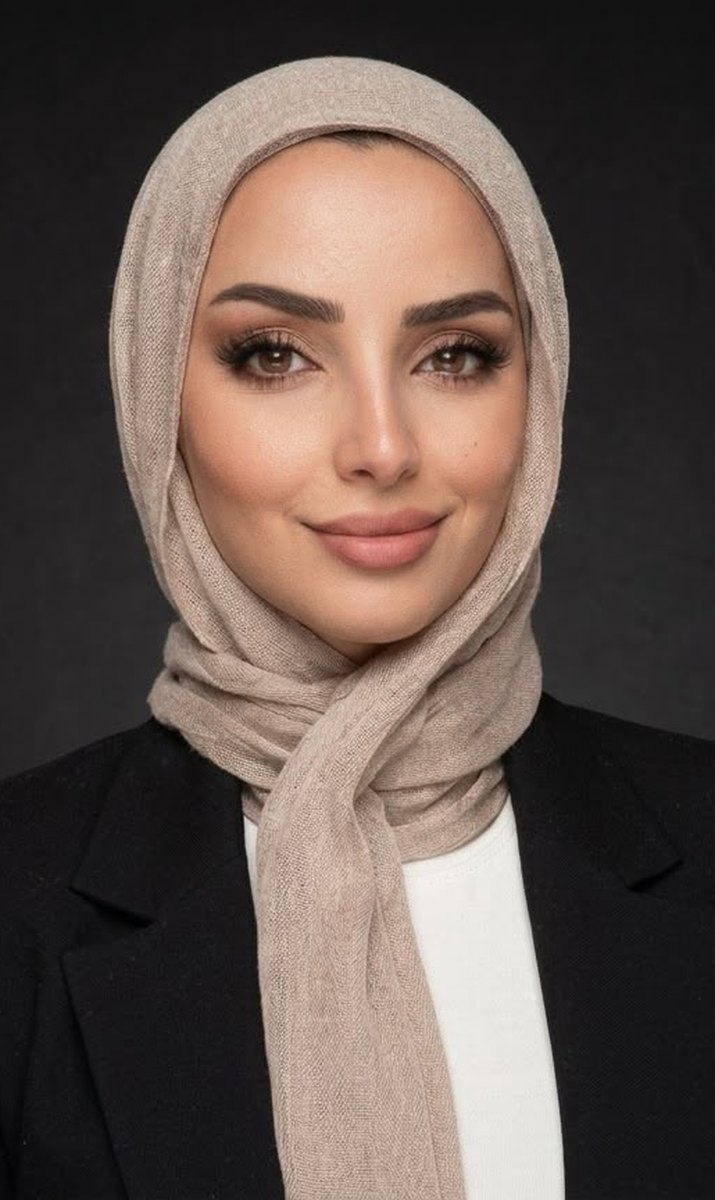
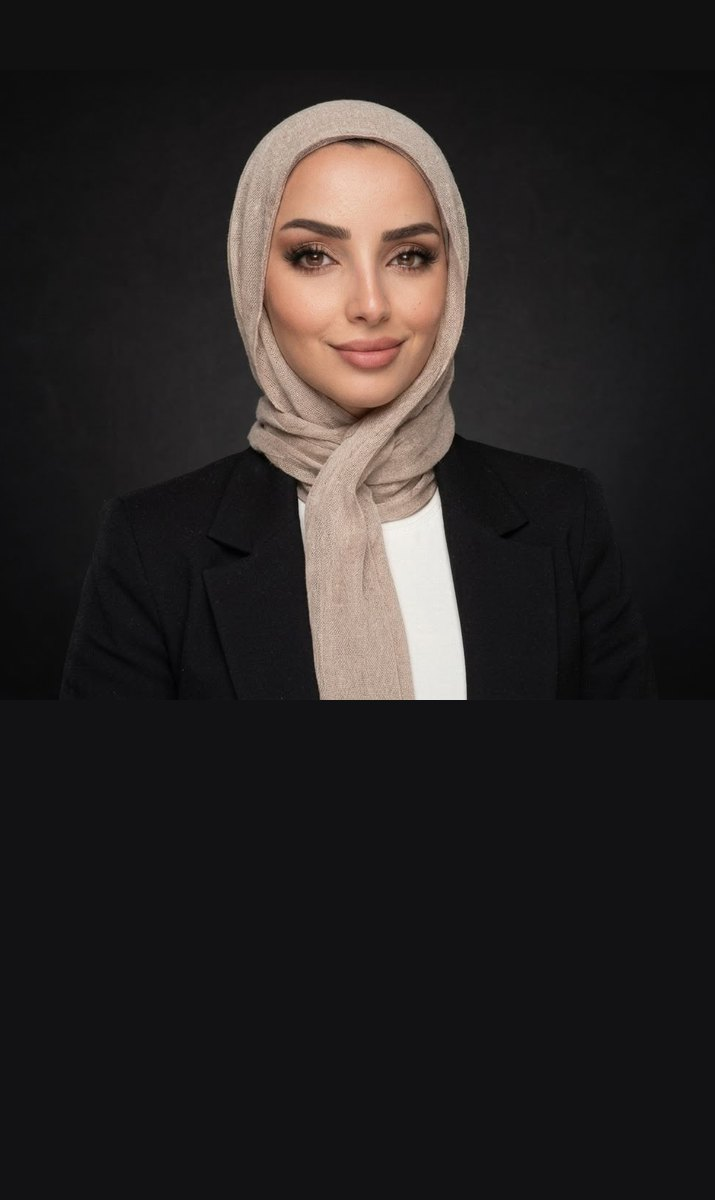
Email links always do something; Lojen's thumbnail framed wider
- "Send Us An Email" scrolls to the inquiry form.
- Every mailto: link also copies the address and shows a short message,
  since mailto does nothing for visitors without an email app.
- The footer's website icon (linking to the site itself) is removed.
- lojen.jpg rebuilt from the original with head and shoulders in frame,
  padded with the photo's own backdrop tone, matching the other thumbnails.

diff --git a/ar/index.html b/ar/index.html
@@ -33,7 +33,7 @@
   <link rel="preconnect" href="https://fonts.googleapis.com">
   <link rel="preconnect" href="https://fonts.gstatic.com" crossorigin="">
   <link href="https://fonts.googleapis.com/css2?family=Instrument+Serif:ital@0;1&amp;family=Roboto:wght@300;400;500;700&amp;family=Amiri:ital,wght@0,400;0,700;1,400&amp;family=IBM+Plex+Sans+Arabic:wght@300;400;500;600&amp;display=swap" rel="stylesheet">
-  <link rel="stylesheet" href="/assets/css/style.css?v=20261021m">
+  <link rel="stylesheet" href="/assets/css/style.css?v=20261021n">
   <script type="application/ld+json">
   {
     "@context": "https://schema.org",
@@ -103,6 +103,7 @@
     <canvas id="pre-canvas"></canvas>
     <img class="pre-logo" src="/assets/img/icon.png" alt="">
   </div>
+  
   
   
   
@@ -287,12 +288,12 @@
       </div></div>
 
       <div class="vm-grid" id="vision">
-        <article class="vm-card" data-reveal="" style="">
+        <article class="vm-card" data-reveal="">
           <h3 class="vm-title" data-i18n="vision.title">رؤيتنا</h3>
           <p class="vm-text" data-i18n="vision.text">أن نكون مؤسسة خدمات مهنية رائدة ومعياراً للتميز في الأردن والمنطقة، متميزين بخبرتنا الفنية والتزامنا الراسخ بالنزاهة المهنية وحلولنا المبتكرة التي تبعث الثقة وتمكّن الأعمال وتسهم في النمو الاقتصادي المستدام.</p>
           <p class="vm-tag" data-i18n="vision.tag">تميز مهني · قيادة موثوقة</p>
         </article>
-        <article class="vm-card" data-reveal="" style="">
+        <article class="vm-card" data-reveal="">
           <h3 class="vm-title" data-i18n="mission.title">مهمتنا</h3>
           <p class="vm-text" data-i18n="mission.text">تقديم خدمات استثنائية في التدقيق والضرائب والمحاسبة والاستشارات من خلال التميز المهني والنزاهة ونهج يركز على العميل. نلتزم ببناء شراكات دائمة، وتقديم حلول عملية ومبتكرة، وتمكين عملائنا من تحقيق الشفافية المالية والكفاءة التشغيلية والنمو المستدام لأعمالهم.</p>
           <p class="vm-tag" data-i18n="mission.tag">نزاهة مهنية · نجاح العملاء</p>
@@ -416,7 +417,7 @@
     <section class="section why container" id="why">
       <div class="why-head">
         <h2 class="h2"><span data-i18n="why.title1">لماذا</span> <span class="italic" data-i18n="why.title2">تختارنا</span></h2>
-        <p class="why-intro" data-i18n="why.intro" data-reveal="" style="">نجمع بين الخبرة المهنية والمعرفة بالقطاعات ونهج يركز على العميل لتقديم حلول موثوقة وعملية وذات قيمة. ويمكّننا التزامنا بالجودة والاستقلالية والتحسين المستمر من بناء علاقات دائمة ودعم عملائنا في تحقيق أهداف أعمالهم.</p>
+        <p class="why-intro" data-i18n="why.intro" data-reveal="">نجمع بين الخبرة المهنية والمعرفة بالقطاعات ونهج يركز على العميل لتقديم حلول موثوقة وعملية وذات قيمة. ويمكّننا التزامنا بالجودة والاستقلالية والتحسين المستمر من بناء علاقات دائمة ودعم عملائنا في تحقيق أهداف أعمالهم.</p>
       </div>
       <div class="why-grid" id="why-grid" hidden="">
       <article class="why-card gradient-border-card open" data-reveal="" style="">
@@ -716,7 +717,7 @@
     <!-- 8. You can expect that we are -->
     <section class="section expect" id="expect">
       <div class="expect-inner">
-        <div class="expect-head" data-reveal="" style="">
+        <div class="expect-head" data-reveal="">
           <h2 class="expect-title"><span class="italic" data-i18n="expect.t1">يمكنك أن</span><span class="italic big" data-i18n="expect.t2">تتوقع</span><span class="italic" data-i18n="expect.t3">أننا</span></h2>
         </div>
         <div class="marquee expect-marquee"><div class="marquee-track benefits" id="expect-track" style="--dur: 30s;">
@@ -744,7 +745,7 @@
     <!-- 8b. Inquiry form -->
     <section class="section inquiry container" id="inquiry">
       <div class="inquiry-grid">
-        <div class="inquiry-copy" data-reveal="" style="">
+        <div class="inquiry-copy" data-reveal="">
           <h2 class="h2"><span data-i18n="inquiry.title1">حدثنا عن</span> <span class="italic" data-i18n="inquiry.title2">أعمالك.</span></h2>
           <p class="light" data-i18n="inquiry.sub">شاركنا بعض التفاصيل عن أعمالك أو متطلباتك المهنية، وسيرد عليك أحد شركائنا أو المهنيين المؤهلين لدينا عبر البريد الإلكتروني أو واتساب خلال يوم عمل واحد.</p>
           <ul class="inquiry-points" id="inquiry-points"><li>استشارة أولية مجانية دون أي التزام</li><li>تواصل مباشر مع شركائنا أو المهنيين المؤهلين لدينا</li><li>سرية تامة لجميع المعلومات المشاركة</li></ul>
@@ -796,11 +797,10 @@
   <footer class="footer container">
     <div class="connect">
       <div class="connect-actions">
-        <a class="btn" href="mailto:info@caudit.net"><span class="btn-label" data-i18n="footer.email">أرسل لنا بريداً إلكترونياً</span><span class="btn-icon"><i class="btn-dot"></i><svg viewBox="0 0 24 24" fill="none" stroke="currentColor" stroke-width="2" stroke-linecap="round" stroke-linejoin="round"><path d="M7 7h10v10"></path><path d="M7 17 17 7"></path></svg></span></a>
+        <a class="btn" href="#inquiry"><span class="btn-label" data-i18n="footer.email">أرسل لنا بريداً إلكترونياً</span><span class="btn-icon"><i class="btn-dot"></i><svg viewBox="0 0 24 24" fill="none" stroke="currentColor" stroke-width="2" stroke-linecap="round" stroke-linejoin="round"><path d="M7 7h10v10"></path><path d="M7 17 17 7"></path></svg></span></a>
         <div class="socials">
           <a href="https://wa.me/962796875200?text=%D9%85%D8%B1%D8%AD%D8%A8%D8%A7%D9%8B%20%D8%A7%D9%84%D9%85%D9%88%D8%AD%D8%AF%D8%A9%D8%8C%20%D8%A3%D8%B1%D8%BA%D8%A8%20%D8%A8%D8%AD%D8%AC%D8%B2%20%D8%A7%D8%B3%D8%AA%D8%B4%D8%A7%D8%B1%D8%A9%20%D9%85%D8%B9%20%D8%A7%D9%84%D8%B3%D9%8A%D8%AF%20%D8%B9%D8%B5%D8%A7%D9%85%20%D8%A7%D9%84%D9%85%D9%84%D8%A7%D8%B2%D9%85." data-wa="" target="_blank" rel="noopener" aria-label="WhatsApp"><svg viewBox="0 0 24 24" fill="currentColor"><path d="M12.04 2C6.58 2 2.13 6.45 2.13 11.91c0 1.75.46 3.45 1.32 4.95L2.05 22l5.25-1.38c1.45.79 3.08 1.21 4.74 1.21 5.46 0 9.91-4.45 9.91-9.91S17.5 2 12.04 2m0 1.67c4.54 0 8.24 3.7 8.24 8.24s-3.7 8.24-8.24 8.24c-1.48 0-2.93-.4-4.19-1.15l-.3-.18-3.12.82.83-3.04-.2-.31a8.2 8.2 0 0 1-1.26-4.38c0-4.54 3.7-8.24 8.24-8.24M8.53 7.33c-.16 0-.43.06-.66.31-.22.25-.87.86-.87 2.07 0 1.22.89 2.39 1 2.56.14.17 1.76 2.67 4.25 3.73.59.27 1.05.42 1.41.53.59.19 1.13.16 1.56.1.48-.07 1.46-.6 1.67-1.18.21-.58.21-1.07.15-1.18-.07-.1-.23-.16-.48-.27-.25-.14-1.47-.74-1.69-.82-.23-.08-.37-.12-.56.12-.16.25-.64.81-.78.97-.15.17-.29.19-.53.07-.26-.13-1.06-.39-2-1.23-.74-.66-1.23-1.47-1.38-1.72-.12-.24-.01-.39.11-.5.11-.11.27-.29.37-.44.13-.14.17-.25.25-.41.08-.17.04-.31-.02-.43-.06-.11-.56-1.35-.77-1.84-.2-.48-.4-.42-.56-.43-.14 0-.3-.01-.47-.01"></path></svg></a>
           <a href="mailto:info@caudit.net" aria-label="Email"><svg viewBox="0 0 24 24" fill="none" stroke="currentColor" stroke-width="1.6" stroke-linecap="round" stroke-linejoin="round"><rect x="3" y="5" width="18" height="14" rx="2"></rect><path d="m3 7 9 6 9-6"></path></svg></a>
-          <a href="https://www.caudit.net" target="_blank" rel="noopener" aria-label="Website"><svg viewBox="0 0 24 24" fill="none" stroke="currentColor" stroke-width="1.6" stroke-linecap="round" stroke-linejoin="round"><circle cx="12" cy="12" r="9"></circle><path d="M3 12h18"></path><path d="M12 3a14 14 0 0 1 0 18a14 14 0 0 1 0-18"></path></svg></a>
         </div>
       </div>
     </div>
@@ -833,8 +833,8 @@
   <script src="https://cdn.jsdelivr.net/npm/gsap@3.12.5/dist/ScrollTrigger.min.js"></script>
   <script src="https://cdn.jsdelivr.net/npm/lenis@1.1.18/dist/lenis.min.js"></script>
   <script src="/assets/js/config.js"></script>
-  <script src="/assets/js/i18n.js?v=20261021m"></script>
-  <script src="/assets/js/main.js?v=20261021m"></script>
+  <script src="/assets/js/i18n.js?v=20261021n"></script>
+  <script src="/assets/js/main.js?v=20261021n"></script>
 
 
 </body></html>

diff --git a/index.html b/index.html
@@ -33,7 +33,7 @@
   <link rel="preconnect" href="https://fonts.googleapis.com">
   <link rel="preconnect" href="https://fonts.gstatic.com" crossorigin="">
   <link href="https://fonts.googleapis.com/css2?family=Instrument+Serif:ital@0;1&amp;family=Roboto:wght@300;400;500;700&amp;family=Amiri:ital,wght@0,400;0,700;1,400&amp;family=IBM+Plex+Sans+Arabic:wght@300;400;500;600&amp;display=swap" rel="stylesheet">
-  <link rel="stylesheet" href="/assets/css/style.css?v=20261021m">
+  <link rel="stylesheet" href="/assets/css/style.css?v=20261021n">
   <script type="application/ld+json">
   {
     "@context": "https://schema.org",
@@ -103,6 +103,7 @@
     <canvas id="pre-canvas"></canvas>
     <img class="pre-logo" src="/assets/img/icon.png" alt="">
   </div>
+  
   
   
   
@@ -287,12 +288,12 @@
       </div></div>
 
       <div class="vm-grid" id="vision">
-        <article class="vm-card" data-reveal="" style="">
+        <article class="vm-card" data-reveal="">
           <h3 class="vm-title" data-i18n="vision.title">Our Vision</h3>
           <p class="vm-text" data-i18n="vision.text">To be recognized as a premier professional services firm and a benchmark for excellence in Jordan and across the region, distinguished by our technical expertise, unwavering commitment to professional integrity, and innovative solutions that inspire confidence, empower businesses, and contribute to sustainable economic growth.</p>
           <p class="vm-tag" data-i18n="vision.tag">Professional excellence · Trusted leadership</p>
         </article>
-        <article class="vm-card" data-reveal="" style="">
+        <article class="vm-card" data-reveal="">
           <h3 class="vm-title" data-i18n="mission.title">Our Mission</h3>
           <p class="vm-text" data-i18n="mission.text">To deliver exceptional audit, tax, accounting, and advisory services through professional excellence, integrity, and a client-focused approach. We are committed to building lasting partnerships, providing practical and innovative solutions, and empowering our clients to achieve financial transparency, operational efficiency, and sustainable business growth.</p>
           <p class="vm-tag" data-i18n="mission.tag">Professional integrity · Client success</p>
@@ -416,7 +417,7 @@
     <section class="section why container" id="why">
       <div class="why-head">
         <h2 class="h2"><span data-i18n="why.title1">Why</span> <span class="italic" data-i18n="why.title2">Choose Us</span></h2>
-        <p class="why-intro" data-i18n="why.intro" data-reveal="" style="">We combine professional expertise, industry knowledge, and a client-focused approach to deliver reliable, practical, and value-driven solutions. Our commitment to quality, independence, and continuous improvement enables us to build lasting relationships and support our clients in achieving their business objectives.</p>
+        <p class="why-intro" data-i18n="why.intro" data-reveal="">We combine professional expertise, industry knowledge, and a client-focused approach to deliver reliable, practical, and value-driven solutions. Our commitment to quality, independence, and continuous improvement enables us to build lasting relationships and support our clients in achieving their business objectives.</p>
       </div>
       <div class="why-grid" id="why-grid" hidden="">
       <article class="why-card gradient-border-card open" data-reveal="" style="">
@@ -716,7 +717,7 @@
     <!-- 8. You can expect that we are -->
     <section class="section expect" id="expect">
       <div class="expect-inner">
-        <div class="expect-head" data-reveal="" style="">
+        <div class="expect-head" data-reveal="">
           <h2 class="expect-title"><span class="italic" data-i18n="expect.t1">You Can</span><span class="italic big" data-i18n="expect.t2">Expect</span><span class="italic" data-i18n="expect.t3">That We Are</span></h2>
         </div>
         <div class="marquee expect-marquee"><div class="marquee-track benefits" id="expect-track" style="--dur: 30s;">
@@ -744,7 +745,7 @@
     <!-- 8b. Inquiry form -->
     <section class="section inquiry container" id="inquiry">
       <div class="inquiry-grid">
-        <div class="inquiry-copy" data-reveal="" style="">
+        <div class="inquiry-copy" data-reveal="">
           <h2 class="h2"><span data-i18n="inquiry.title1">Tell us about</span> <span class="italic" data-i18n="inquiry.title2">your business.</span></h2>
           <p class="light" data-i18n="inquiry.sub">Share a few details about your business or professional requirements, and one of our partners or qualified professionals will respond by email or WhatsApp within one business day.</p>
           <ul class="inquiry-points" id="inquiry-points"><li>Complimentary initial consultation with no obligation</li><li>Direct communication with our partners or qualified professionals</li><li>Strict confidentiality of all information shared</li></ul>
@@ -796,11 +797,10 @@
   <footer class="footer container">
     <div class="connect">
       <div class="connect-actions">
-        <a class="btn" href="mailto:info@caudit.net"><span class="btn-label" data-i18n="footer.email">Send Us An Email</span><span class="btn-icon"><i class="btn-dot"></i><svg viewBox="0 0 24 24" fill="none" stroke="currentColor" stroke-width="2" stroke-linecap="round" stroke-linejoin="round"><path d="M7 7h10v10"></path><path d="M7 17 17 7"></path></svg></span></a>
+        <a class="btn" href="#inquiry"><span class="btn-label" data-i18n="footer.email">Send Us An Email</span><span class="btn-icon"><i class="btn-dot"></i><svg viewBox="0 0 24 24" fill="none" stroke="currentColor" stroke-width="2" stroke-linecap="round" stroke-linejoin="round"><path d="M7 7h10v10"></path><path d="M7 17 17 7"></path></svg></span></a>
         <div class="socials">
           <a href="https://wa.me/962796875200?text=Hi%20Consolidated%2C%20I%20would%20like%20to%20book%20a%20consultation%20with%20Mr.%20Esam%20N.%20Almulazem." data-wa="" target="_blank" rel="noopener" aria-label="WhatsApp"><svg viewBox="0 0 24 24" fill="currentColor"><path d="M12.04 2C6.58 2 2.13 6.45 2.13 11.91c0 1.75.46 3.45 1.32 4.95L2.05 22l5.25-1.38c1.45.79 3.08 1.21 4.74 1.21 5.46 0 9.91-4.45 9.91-9.91S17.5 2 12.04 2m0 1.67c4.54 0 8.24 3.7 8.24 8.24s-3.7 8.24-8.24 8.24c-1.48 0-2.93-.4-4.19-1.15l-.3-.18-3.12.82.83-3.04-.2-.31a8.2 8.2 0 0 1-1.26-4.38c0-4.54 3.7-8.24 8.24-8.24M8.53 7.33c-.16 0-.43.06-.66.31-.22.25-.87.86-.87 2.07 0 1.22.89 2.39 1 2.56.14.17 1.76 2.67 4.25 3.73.59.27 1.05.42 1.41.53.59.19 1.13.16 1.56.1.48-.07 1.46-.6 1.67-1.18.21-.58.21-1.07.15-1.18-.07-.1-.23-.16-.48-.27-.25-.14-1.47-.74-1.69-.82-.23-.08-.37-.12-.56.12-.16.25-.64.81-.78.97-.15.17-.29.19-.53.07-.26-.13-1.06-.39-2-1.23-.74-.66-1.23-1.47-1.38-1.72-.12-.24-.01-.39.11-.5.11-.11.27-.29.37-.44.13-.14.17-.25.25-.41.08-.17.04-.31-.02-.43-.06-.11-.56-1.35-.77-1.84-.2-.48-.4-.42-.56-.43-.14 0-.3-.01-.47-.01"></path></svg></a>
           <a href="mailto:info@caudit.net" aria-label="Email"><svg viewBox="0 0 24 24" fill="none" stroke="currentColor" stroke-width="1.6" stroke-linecap="round" stroke-linejoin="round"><rect x="3" y="5" width="18" height="14" rx="2"></rect><path d="m3 7 9 6 9-6"></path></svg></a>
-          <a href="https://www.caudit.net" target="_blank" rel="noopener" aria-label="Website"><svg viewBox="0 0 24 24" fill="none" stroke="currentColor" stroke-width="1.6" stroke-linecap="round" stroke-linejoin="round"><circle cx="12" cy="12" r="9"></circle><path d="M3 12h18"></path><path d="M12 3a14 14 0 0 1 0 18a14 14 0 0 1 0-18"></path></svg></a>
         </div>
       </div>
     </div>
@@ -833,8 +833,8 @@
   <script src="https://cdn.jsdelivr.net/npm/gsap@3.12.5/dist/ScrollTrigger.min.js"></script>
   <script src="https://cdn.jsdelivr.net/npm/lenis@1.1.18/dist/lenis.min.js"></script>
   <script src="/assets/js/config.js"></script>
-  <script src="/assets/js/i18n.js?v=20261021m"></script>
-  <script src="/assets/js/main.js?v=20261021m"></script>
+  <script src="/assets/js/i18n.js?v=20261021n"></script>
+  <script src="/assets/js/main.js?v=20261021n"></script>
 
 
 </body></html>

diff --git a/assets/js/main.js b/assets/js/main.js
@@ -45,6 +45,23 @@
     else target.scrollIntoView({ behavior: reduced ? 'auto' : 'smooth' });
   });
 
+  /* ---------- Email links: also copy the address ----------
+     mailto: only works when the visitor has an email app set up; with webmail nothing happens. So every email link
+     also copies the address and says so, and the visitor can paste it into whatever email they use. */
+  let toastTimer = null;
+  function toast(msg) {
+    let t = $('#site-toast');
+    if (!t) { t = document.createElement('div'); t.id = 'site-toast'; t.className = 'site-toast'; t.setAttribute('role', 'status'); document.body.appendChild(t); }
+    t.textContent = msg; t.classList.add('show');
+    clearTimeout(toastTimer); toastTimer = setTimeout(() => t.classList.remove('show'), 4500);
+  }
+  document.addEventListener('click', (e) => {
+    const a = e.target.closest('a[href^="mailto:"]'); if (!a) return;
+    const email = decodeURIComponent(a.getAttribute('href').slice(7).split('?')[0]);
+    const done = () => toast(dict.footer.copied.replace('{email}', email));
+    if (navigator.clipboard && navigator.clipboard.writeText) navigator.clipboard.writeText(email).then(done, done); else done();
+  });
+
   /* ---------- Language ---------- */
   function getLang() {
     const q = new URLSearchParams(location.search).get('lang');

diff --git a/assets/css/style.css b/assets/css/style.css
@@ -775,3 +775,7 @@ html[lang="ar"] .services-title { font-style: normal; }
 .services-title::after { content: ""; position: absolute; bottom: 0; inset-inline-start: 0; inset-inline-end: calc((100% - 100vw) / 2); height: 2px;
   background: linear-gradient(90deg, var(--cyan), var(--blue) 18%, var(--purple) 36%, rgba(255,255,255,.18) 62%, rgba(255,255,255,.18)); }
 html[dir="rtl"] .services-title::after { background: linear-gradient(270deg, var(--cyan), var(--blue) 18%, var(--purple) 36%, rgba(255,255,255,.18) 62%, rgba(255,255,255,.18)); }
+
+/* Small status message (e.g. "Email address copied"). */
+.site-toast { position: fixed; inset-inline: 1rem; bottom: 1.5rem; z-index: 10070; width: fit-content; max-width: min(34rem, calc(100% - 2rem)); margin-inline: auto; padding: .85rem 1.2rem; border-radius: 1rem; background: rgba(20,20,20,.92); border: 1px solid var(--line); color: var(--brand-white); font: 400 1.05rem/1.4 var(--font-head); text-align: center; -webkit-backdrop-filter: blur(12px); backdrop-filter: blur(12px); opacity: 0; transform: translateY(12px); transition: opacity .3s, transform .3s var(--ease); pointer-events: none; }
+.site-toast.show { opacity: 1; transform: none; }

diff --git a/assets/js/i18n.js b/assets/js/i18n.js
@@ -203,6 +203,7 @@ window.I18N = {
     },
     footer: {
       email: 'Send Us An Email',
+      copied: 'Email address copied: {email}. If no email app opened, paste it into your email.',
       cols: [
         { title: 'Our Services', services: [0, 2, 1, 3, 4], all: 'All Services' },
         { title: 'Our Firm', links: [['About Us', '#about'], ['Our Team', '#team'], ['Our Partners', '#clients'], ['Careers', '/careers/']] },
@@ -422,6 +423,7 @@ window.I18N = {
     },
     footer: {
       email: 'أرسل لنا بريداً إلكترونياً',
+      copied: 'تم نسخ البريد الإلكتروني: {email}. إذا لم يُفتح تطبيق البريد، الصقه في بريدك.',
       cols: [
         { title: 'خدماتنا', services: [0, 2, 1, 3, 4], all: 'جميع الخدمات' },
         { title: 'مؤسستنا', links: [['من نحن', '#about'], ['فريقنا', '#team'], ['شركاؤنا', '#clients'], ['الوظائف', '/ar/careers/']] },

diff --git a/ar/careers/index.html b/ar/careers/index.html
@@ -25,7 +25,7 @@
   <link rel="preconnect" href="https://fonts.googleapis.com">
   <link rel="preconnect" href="https://fonts.gstatic.com" crossorigin="">
   <link href="https://fonts.googleapis.com/css2?family=Instrument+Serif:ital@0;1&amp;family=Roboto:wght@300;400;500;700&amp;family=Amiri:ital,wght@0,400;0,700;1,400&amp;family=IBM+Plex+Sans+Arabic:wght@300;400;500;600&amp;display=swap" rel="stylesheet">
-  <link rel="stylesheet" href="/assets/css/style.css?v=20261021m">
+  <link rel="stylesheet" href="/assets/css/style.css?v=20261021n">
   <script type="application/ld+json">
   {
     "@context": "https://schema.org",
@@ -137,7 +137,7 @@
   </footer>
 
   <script src="/assets/js/config.js"></script>
-  <script src="/assets/js/i18n.js?v=20261021m"></script>
+  <script src="/assets/js/i18n.js?v=20261021n"></script>
   <script src="/assets/js/careers.js?v=20261018"></script>
 
 

diff --git a/careers/index.html b/careers/index.html
@@ -25,7 +25,7 @@
   <link rel="preconnect" href="https://fonts.googleapis.com">
   <link rel="preconnect" href="https://fonts.gstatic.com" crossorigin="">
   <link href="https://fonts.googleapis.com/css2?family=Instrument+Serif:ital@0;1&amp;family=Roboto:wght@300;400;500;700&amp;family=Amiri:ital,wght@0,400;0,700;1,400&amp;family=IBM+Plex+Sans+Arabic:wght@300;400;500;600&amp;display=swap" rel="stylesheet">
-  <link rel="stylesheet" href="/assets/css/style.css?v=20261021m">
+  <link rel="stylesheet" href="/assets/css/style.css?v=20261021n">
   <script type="application/ld+json">
   {
     "@context": "https://schema.org",
@@ -137,7 +137,7 @@
   </footer>
 
   <script src="/assets/js/config.js"></script>
-  <script src="/assets/js/i18n.js?v=20261021m"></script>
+  <script src="/assets/js/i18n.js?v=20261021n"></script>
   <script src="/assets/js/careers.js?v=20261018"></script>
 
 
